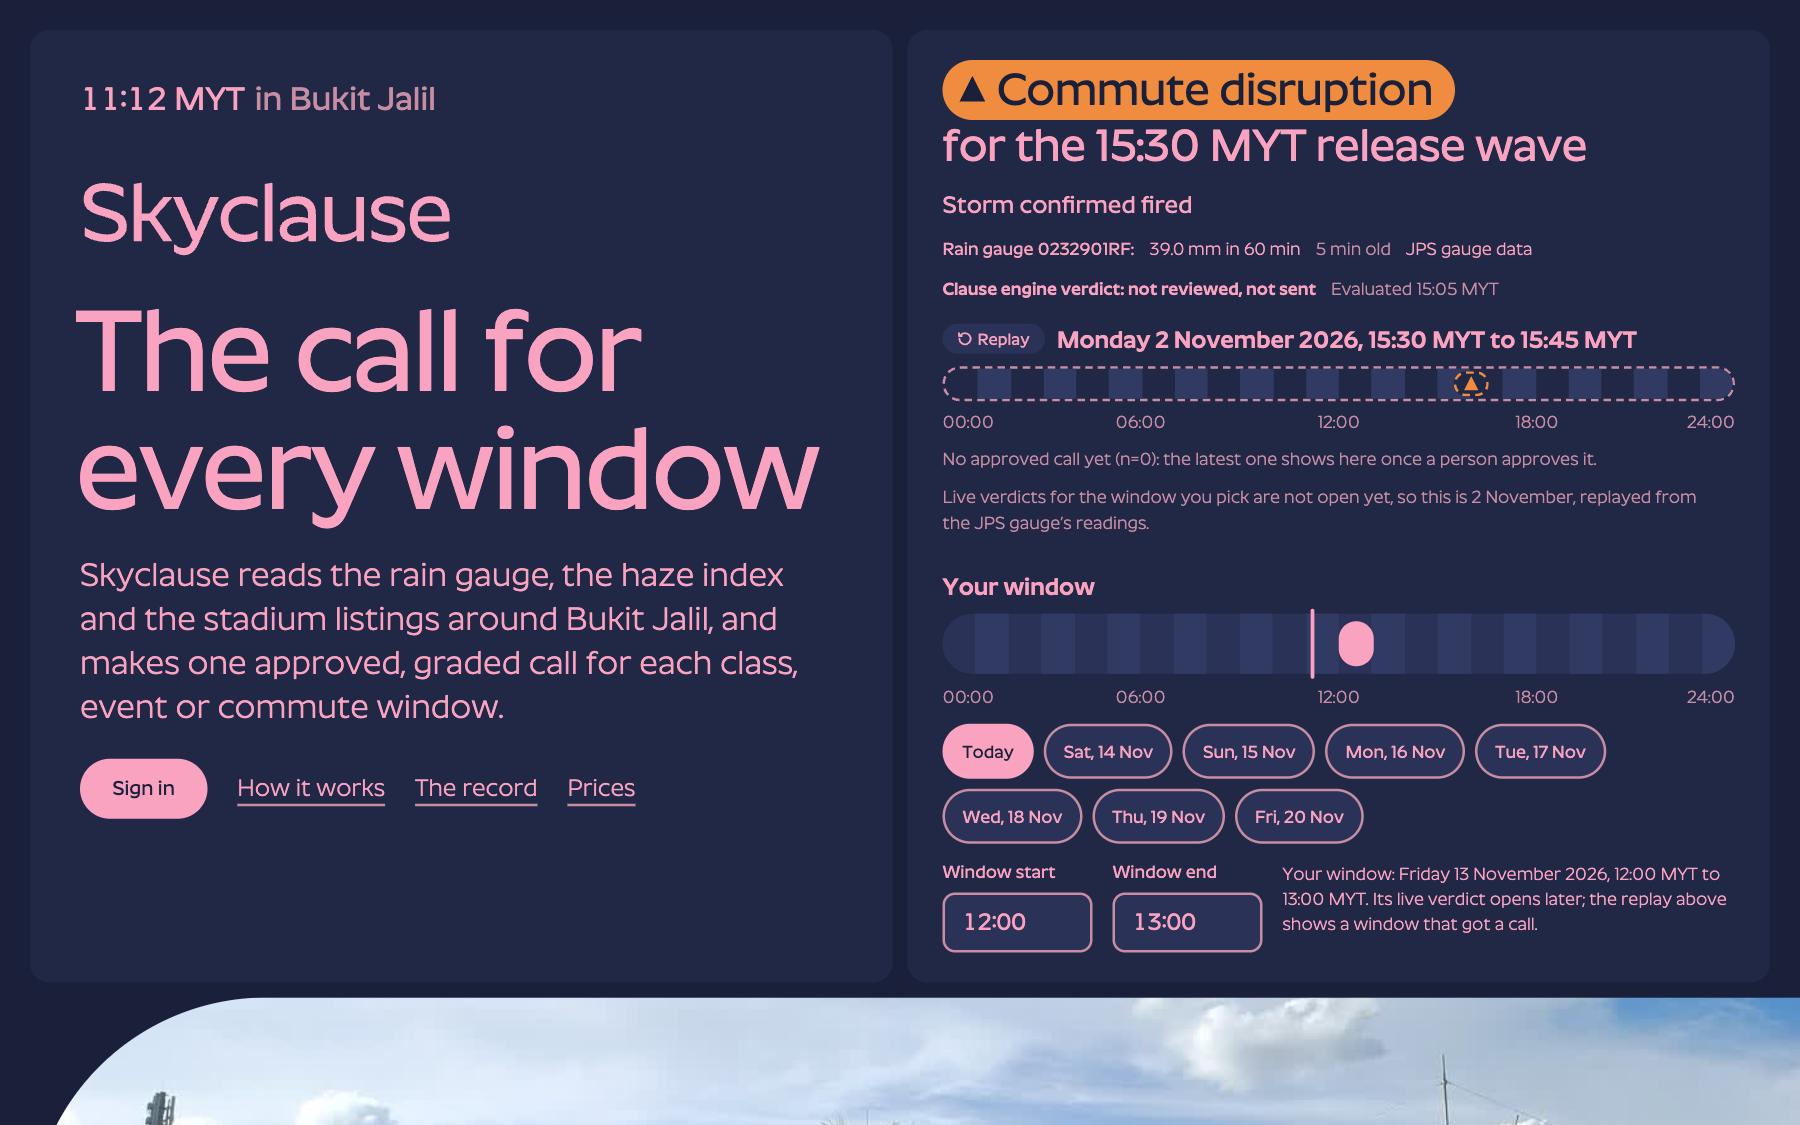
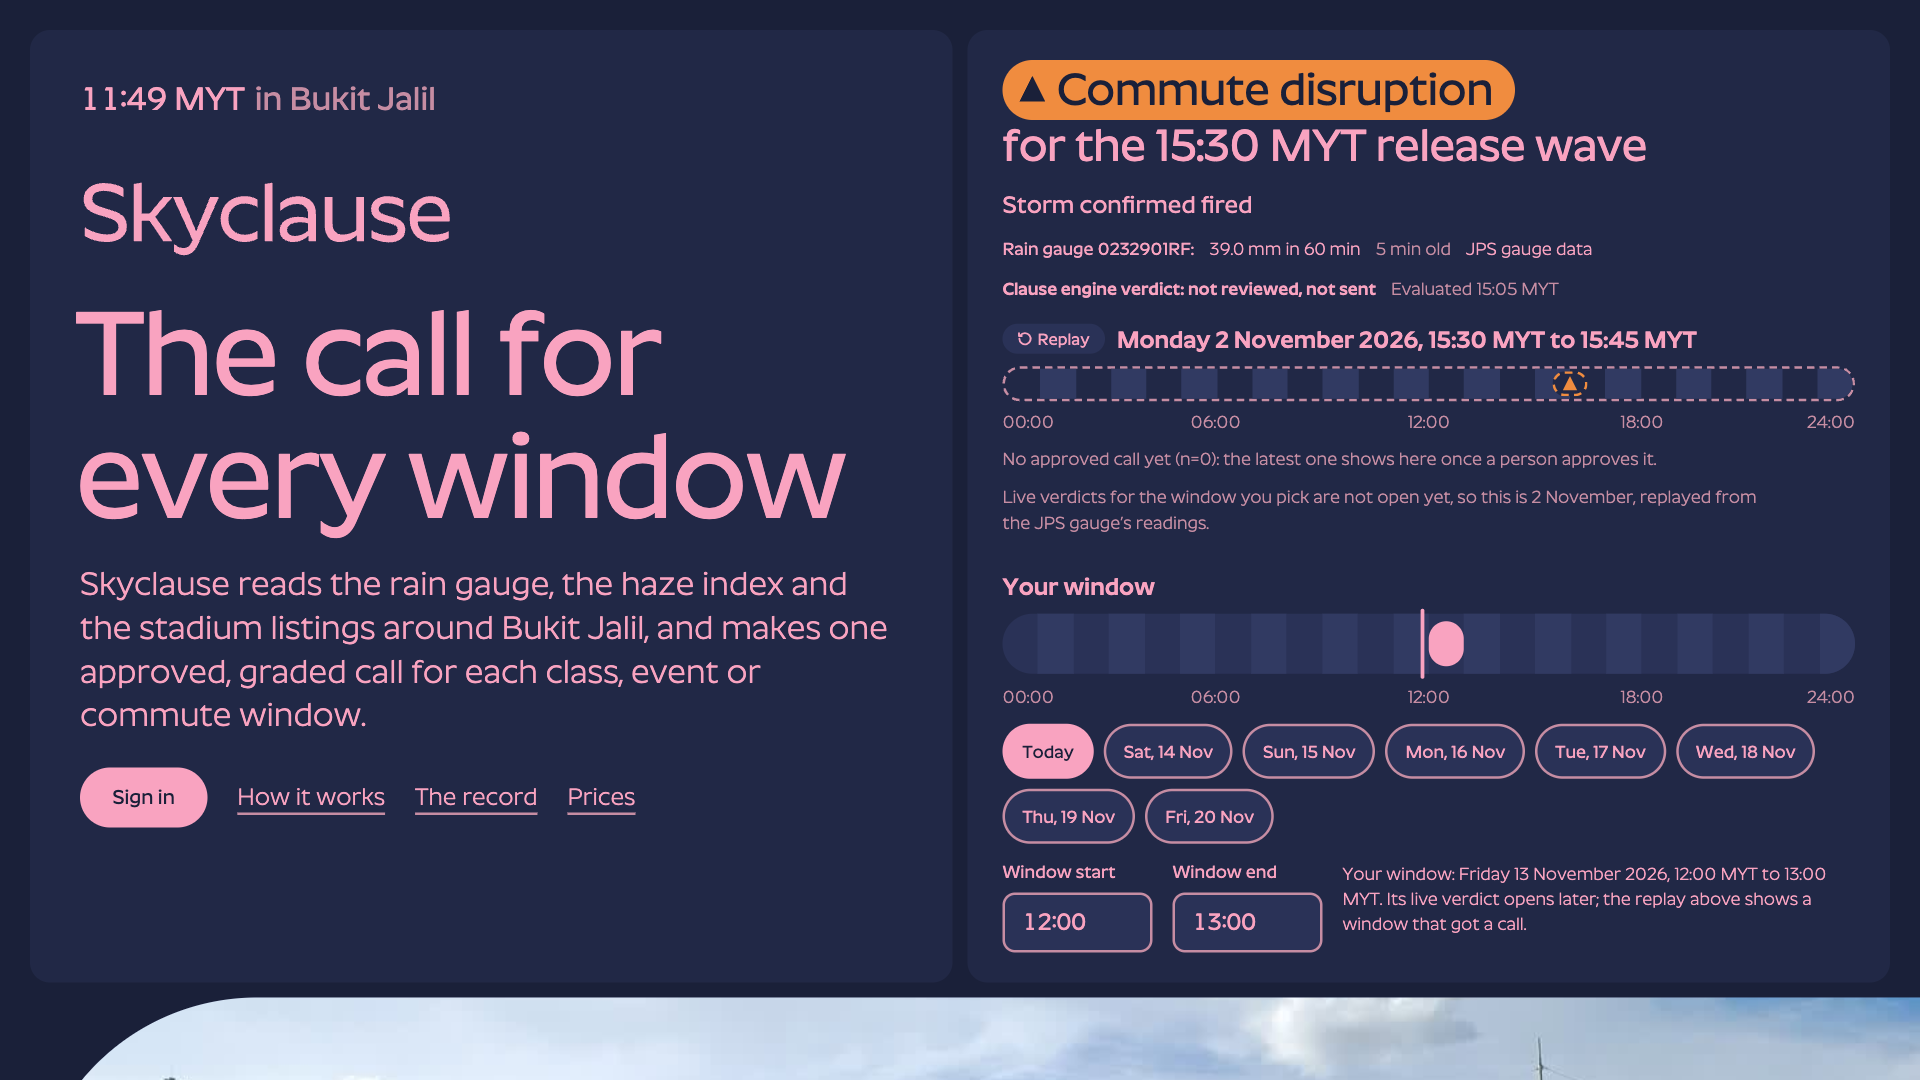
docs: retake the README pictures at 16:9
Every picture is now 1920 by 1080. Six in-app pictures join the landing
ones: the dashboard, the project overview, signals, windows, the approver
rota and the bound sources, from a project made on production for this
README with real sources bound.

diff --git a/README.md b/README.md
@@ -97,13 +97,19 @@ The first project is Bukit Jalil, Kuala Lumpur, where Asia Pacific University si
 
 ### Screenshots
 
-Every picture is the production site on 13 November 2026. A value marked "Replay" is a labelled replay of 2 November 2026 from the stored JPS readings; no call was made that day.
+Every picture is production on 13 November 2026. The app pictures show a project made for this README: Bukit Jalil, bound to the JPS gauge, the Cheras air-quality station and MET Malaysia's warnings and forecast, with the readings as they were that noon. On the landing page, a value marked "Replay" is a labelled replay of 2 November 2026 from the stored JPS readings; no call was made that day.
 
-| The landing page: pick a window, read the verdict                                                                          | Sign in by emailed link, Google or a passkey                                                                                   |
-| -------------------------------------------------------------------------------------------------------------------------- | ------------------------------------------------------------------------------------------------------------------------------ |
-| ![The landing page: the headline beside the verdict for a chosen window](/docs/readme/screenshots/landing-hero.png)        | ![The sign-in page: an email field, Google and a passkey](/docs/readme/screenshots/sign-in.png)                                |
-| **The record: the ledger entry, the notice, the calendar, the grade**                                                      | **The public sources, each with its cadence and licence**                                                                      |
-| ![The record section: a replayed ledger with a crossing and a shadow verdict](/docs/readme/screenshots/landing-record.png) | ![Six source tiles: JPS, DOE APIMS, MET Malaysia, Rapid Rail, GoLive, Wikipedia](/docs/readme/screenshots/landing-sources.png) |
+| Dashboard: what needs review, the windows at risk and signal health                                                                                | Project overview: the mode now, with every input's age                                                                                   |
+| -------------------------------------------------------------------------------------------------------------------------------------------------- | ---------------------------------------------------------------------------------------------------------------------------------------- |
+| ![The dashboard: nothing to approve, no windows at risk, signal health and the storm afternoons ahead](/docs/readme/screenshots/app-dashboard.png) | ![The project overview: Sky is Normal, with the age of each input and today's strip](/docs/readme/screenshots/app-overview.png)          |
+| **Signals: each bound source, its newest value and its age**                                                                                       | **Windows: the 15:30 release wave on its day, with MET's forecasts**                                                                     |
+| ![The signals page: four sources, each fresh, with the Air Pollutant Index and the 60-minute rain total](/docs/readme/screenshots/app-signals.png) | ![The windows timeline: one commute wave at 15:30 today and a MET forecast for each day ahead](/docs/readme/screenshots/app-windows.png) |
+| **Approver rota: who is on duty, and which slots are unstaffed**                                                                                   | **Packs and sources: the Sky pack and what it reads**                                                                                    |
+| ![The approver rota for the next seven days, with one storm-afternoon shift](/docs/readme/screenshots/app-rota.png)                                | ![Project settings: the Sky pack on, the Crowd pack off, and four bound sources](/docs/readme/screenshots/app-sources.png)               |
+| **The landing page: pick a window, read the verdict**                                                                                              | **Sign in by emailed link, Google or a passkey**                                                                                         |
+| ![The landing page: the headline beside the verdict for a chosen window](/docs/readme/screenshots/landing-hero.png)                                | ![The sign-in page: an email field, Google and a passkey](/docs/readme/screenshots/sign-in.png)                                          |
+| **The record: the ledger entry, the notice, the calendar, the grade**                                                                              | **The public sources, each with its cadence and licence**                                                                                |
+| ![The record section: a replayed ledger with a crossing and a shadow verdict](/docs/readme/screenshots/landing-record.png)                         | ![Six source tiles: JPS, DOE APIMS, MET Malaysia, Rapid Rail, GoLive, Wikipedia](/docs/readme/screenshots/landing-sources.png)           |
 
 <p align="right"><a href="#readme-top">&uarr;</a></p>
 
